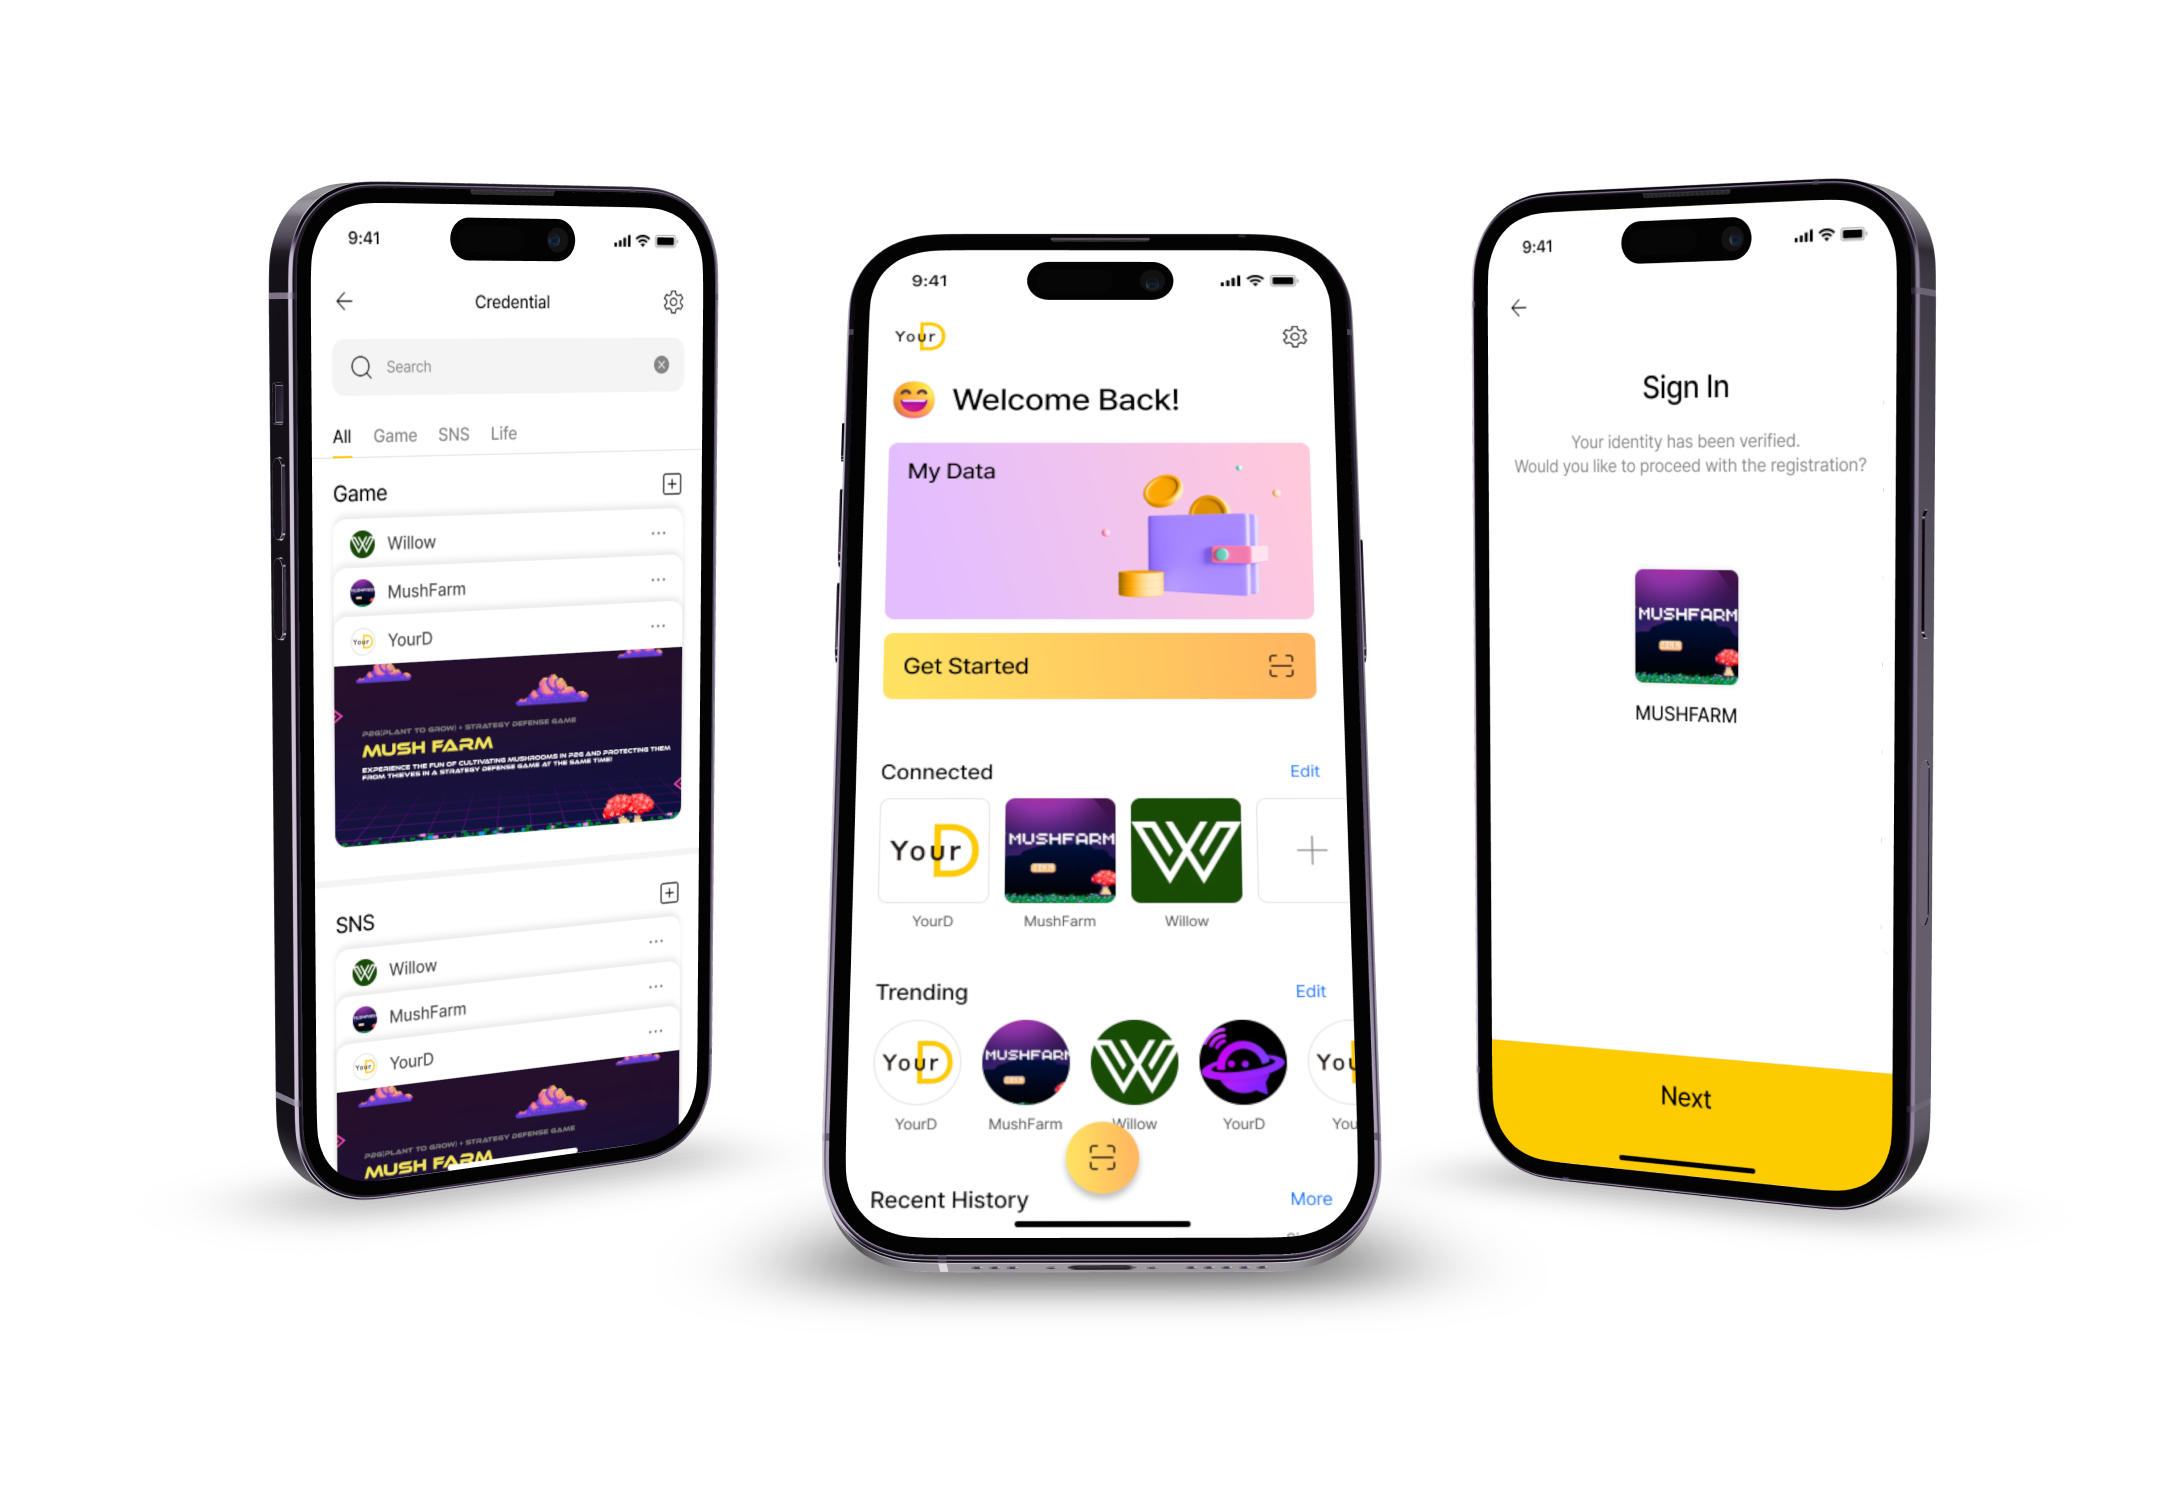
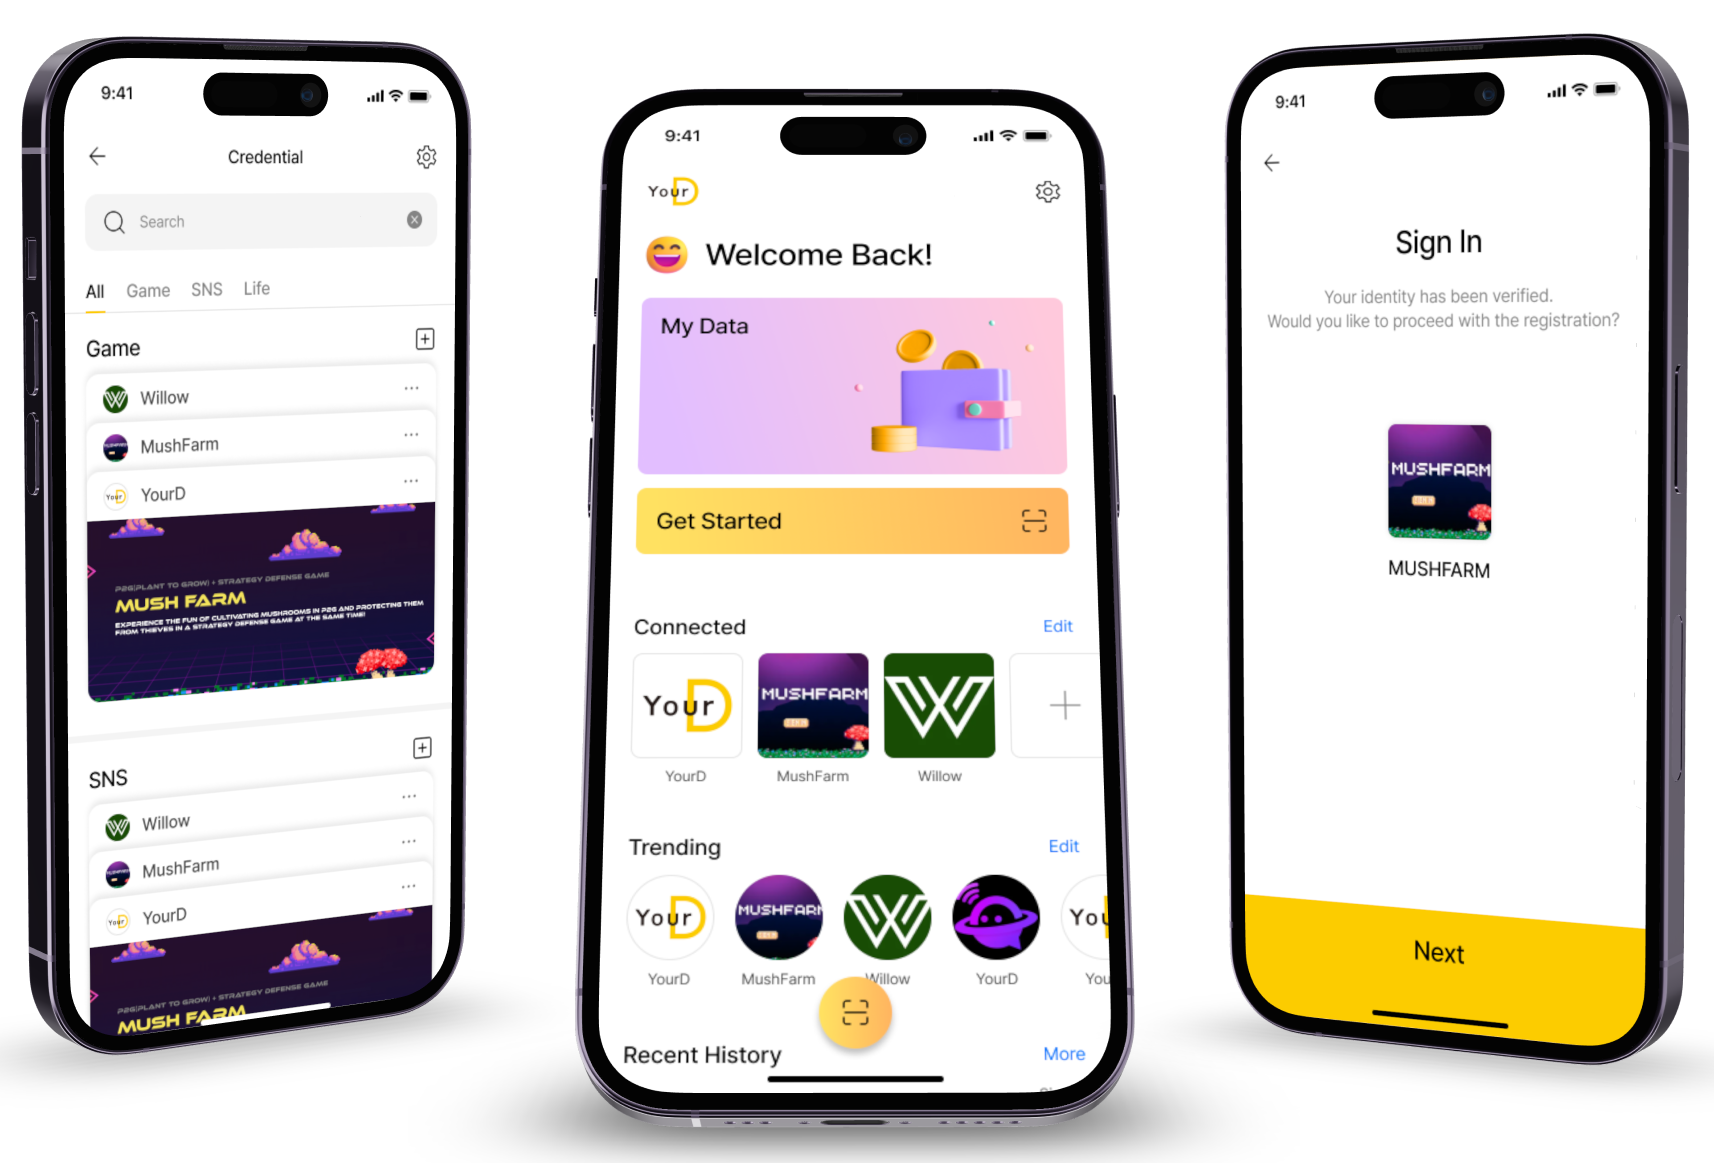
update image size

diff --git a/README.md b/README.md
@@ -80,7 +80,7 @@ For more details, please refer to: [YourD-did-specification](https://github.com/
 
 ## YourD Login
 <p align="center">
-<img align="center" src="/static/img/YourDPass_mockups.png" width="700">
+<img align="center" src="/static/img/YourDPass_mockups.png" width="800">
 </p>
 YourD's easy-login feature, based on QR, involves intricate server design and interplay. By merging existing protocols such as FIDO, WebAuthn, and others, YourD offers an authentication server that allows individual DID inquiries and management without breaching Herd Privacy. From the user's perspective, the process might seem straightforward. However, behind the scenes, there's an extensive interplay and interaction taking place. This feature ensures services on Aleo can benefit from easy authentication and login, promoting mass adoption.
 
@@ -138,8 +138,10 @@ YourD offers a privacy-focused Web3.0 analytics service, enabling existing servi
 
 ## DNS (DID Naming Service)
 <p align="center">
-<img align="center" src="/static/img/DIDns_aleo.png" width="700"/>
-<img align="center" src="/static/img/DIDns_aleo_profile.png" width="700"/>
+<img align="center" src="/static/img/DIDns_aleo.png" width="500"/>
+<br/>
+<br/>
+<img align="center" src="/static/img/DIDns_aleo_profile.png" width="500"/>
 </p>
 ### Permissions
 
